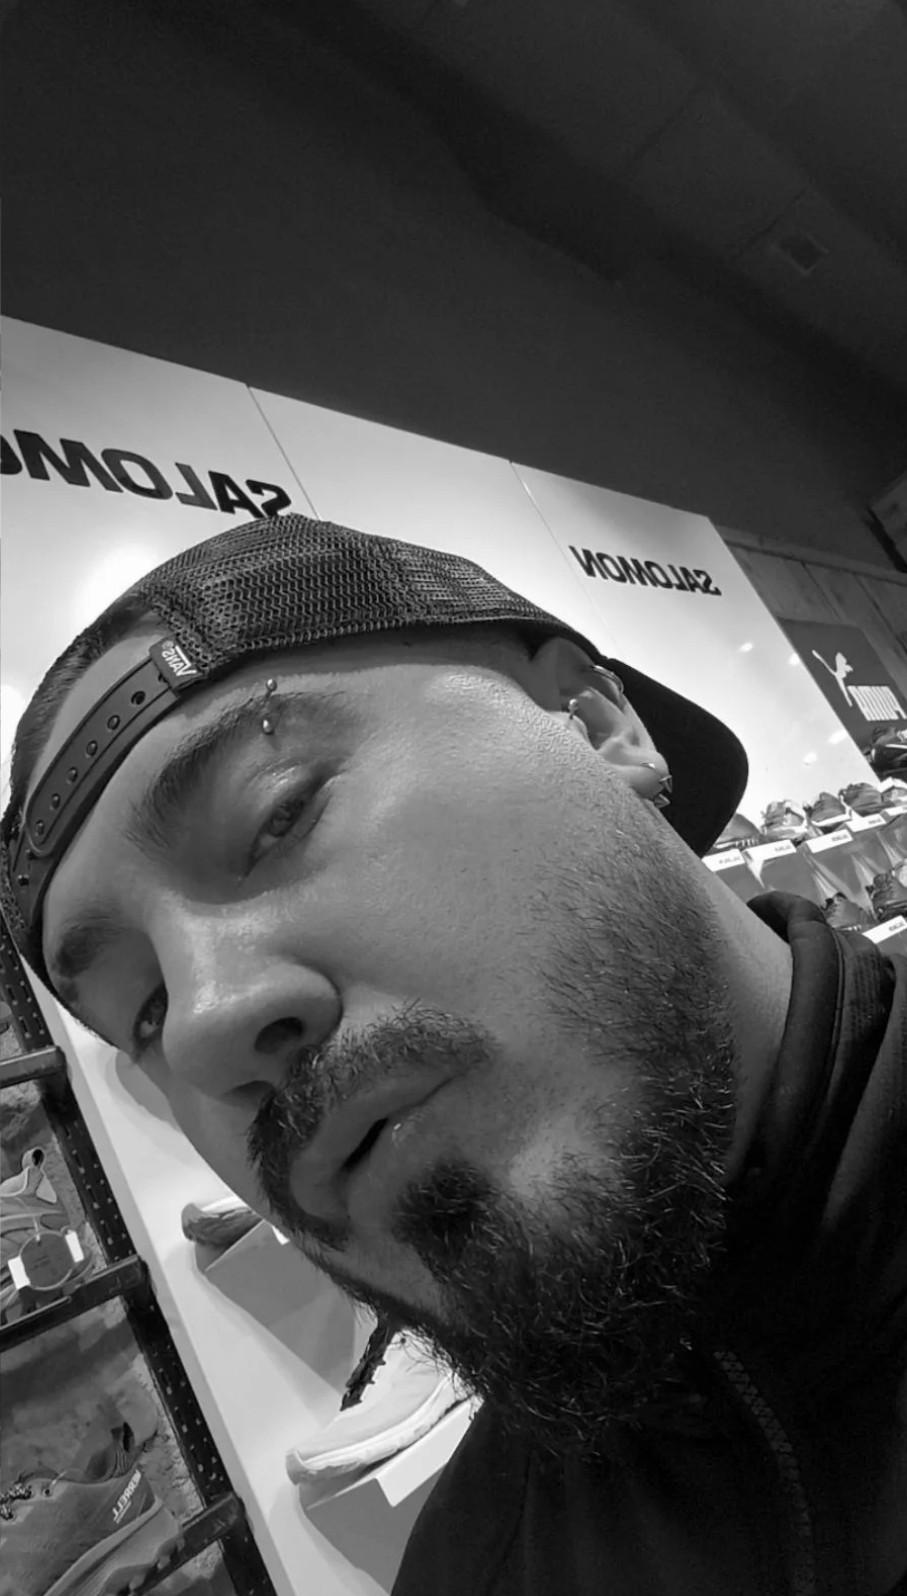
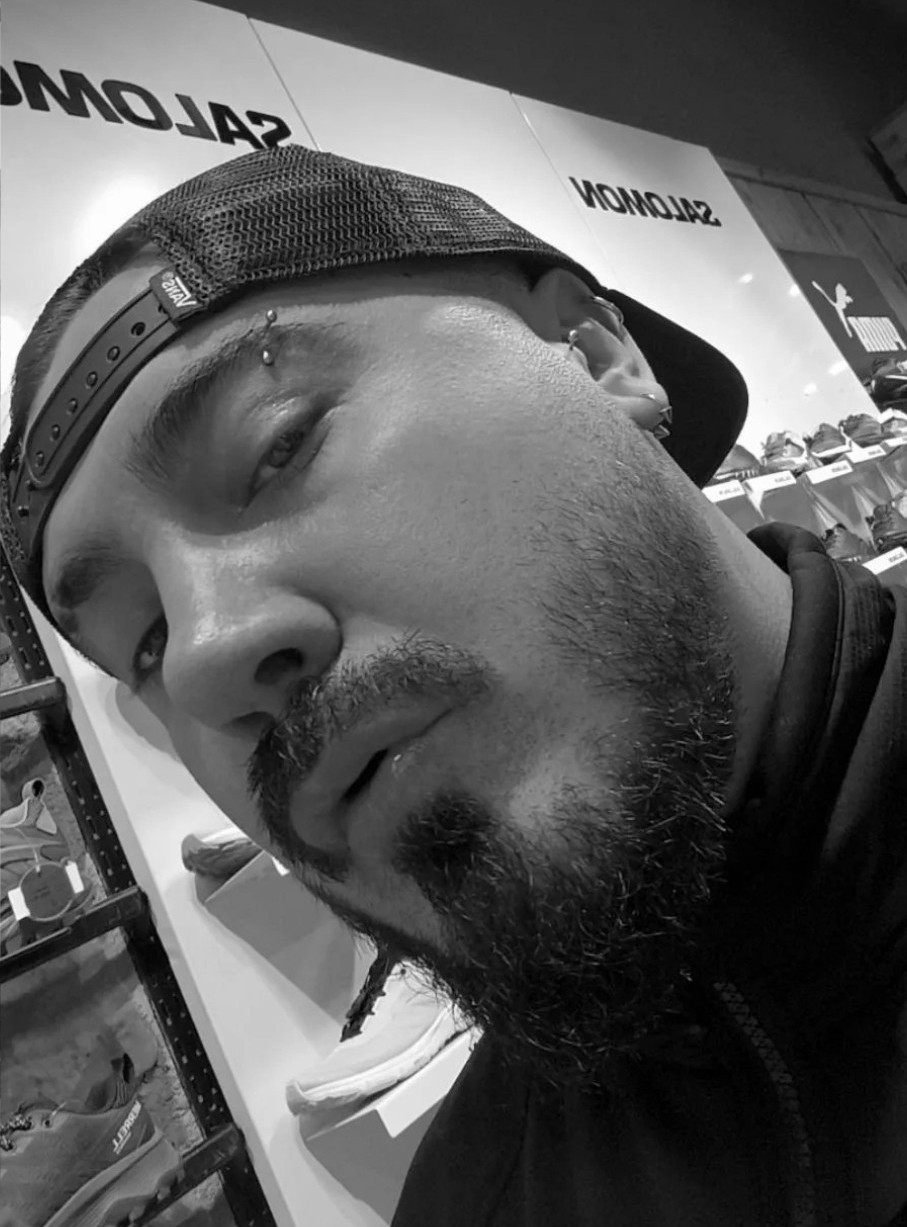
new

diff --git a/index.html b/index.html
@@ -28,6 +28,13 @@
       position: relative;
       overflow-x: hidden;
       font-size: 20px;
+      /* Arka plan animasyonu */
+      background: linear-gradient(120deg, #10172a 0%, #1e2746 100%);
+      animation: bg-move 16s ease-in-out infinite alternate;
+    }
+    @keyframes bg-move {
+      0% { background-position: 0% 50%; }
+      100% { background-position: 100% 50%; }
     }
     .bg-image {
       position: fixed;
@@ -42,6 +49,11 @@
       z-index: 1;
       pointer-events: none;
       background: repeating-linear-gradient(135deg, rgba(255,255,255,0.04) 0 2px, transparent 2px 80px), repeating-linear-gradient(45deg, rgba(255,255,255,0.04) 0 2px, transparent 2px 80px);
+      animation: pattern-move 18s linear infinite alternate;
+    }
+    @keyframes pattern-move {
+      0% { background-position: 0 0, 0 0; }
+      100% { background-position: 80px 80px, 80px 80px; }
     }
     .main-content {
       min-height: 100vh;
@@ -53,15 +65,54 @@
       z-index: 2;
       padding: 0 2vw;
     }
-    .profile-img {
-      width: 120px;
-      height: 120px;
-      border-radius: 50%;
-      object-fit: cover;
-      border: 6px solid #fff;
-      box-shadow: 0 4px 32px rgba(0,0,0,0.18);
-      margin-bottom: 2.2rem;
+    .main-content > * {
+      opacity: 0;
+      transform: translateY(40px);
+      animation: fade-in-up 1.1s cubic-bezier(.23,1.02,.32,1) forwards;
+    }
+    .main-content > .profile-img-hex { animation-delay: 0.1s; }
+    .main-content > .name { animation-delay: 0.3s; }
+    .main-content > .bio { animation-delay: 0.5s; }
+    .main-content > .actions { animation-delay: 0.7s; }
+    @keyframes fade-in-up {
+      to {
+        opacity: 1;
+        transform: none;
+      }
+    }
+    .profile-img-hex {
+      display: flex;
+      justify-content: center;
+      align-items: center;
+      width: 180px;
+      height: 204px;
       background: #fff;
+      clip-path: polygon(25% 6%, 75% 6%, 100% 50%, 75% 94%, 25% 94%, 0% 50%);
+      -webkit-clip-path: polygon(25% 6%, 75% 6%, 100% 50%, 75% 94%, 25% 94%, 0% 50%);
+      margin-bottom: 2.2rem;
+      box-shadow: 0 4px 32px rgba(0,0,0,0.18);
+      transition: box-shadow 0.3s, filter 0.3s;
+    }
+    .profile-img-hex:hover {
+      box-shadow: 0 0 0 8px #7be86c55, 0 4px 32px rgba(0,0,0,0.18);
+      filter: brightness(1.08) drop-shadow(0 0 16px #7be86c88);
+    }
+    .profile-img {
+      width: 160px;
+      height: 184px;
+      border-radius: 0;
+      object-fit: cover;
+      object-position: center top;
+      background: #fff;
+      clip-path: polygon(25% 6%, 75% 6%, 100% 50%, 75% 94%, 25% 94%, 0% 50%);
+      -webkit-clip-path: polygon(25% 6%, 75% 6%, 100% 50%, 75% 94%, 25% 94%, 0% 50%);
+      transition: box-shadow 0.2s, filter 0.2s;
+      border: none;
+      box-shadow: none;
+      margin-bottom: 0;
+    }
+    .profile-img:hover {
+      box-shadow: none;
     }
     .name {
       font-family: 'Tektur', Arial, sans-serif;
@@ -72,6 +123,17 @@
       margin-bottom: 1.2rem;
       letter-spacing: -1px;
       line-height: 1.1;
+      background: linear-gradient(90deg, #7be86c 10%, #fff 50%, #7be86c 90%);
+      background-size: 200% auto;
+      background-clip: text;
+      -webkit-background-clip: text;
+      color: transparent;
+      -webkit-text-fill-color: transparent;
+      animation: gradient-move 4s linear infinite alternate;
+    }
+    @keyframes gradient-move {
+      0% { background-position: 0% 50%; }
+      100% { background-position: 100% 50%; }
     }
     .bio {
       font-size: 1.25em;
@@ -134,15 +196,16 @@
       color: #222b3a;
       text-decoration: none;
       font-size: 2.1rem;
-      transition: background 0.2s, color 0.2s, box-shadow 0.2s;
+      transition: background 0.2s, color 0.2s, box-shadow 0.2s, transform 0.18s;
       border: 2px solid rgba(34,43,58,0.10);
       box-shadow: 0 2px 8px rgba(0,0,0,0.07);
       margin: 0 0.2em;
     }
     .icon-btn:hover {
-      background: #222b3a;
-      color: #fff;
-      box-shadow: 0 4px 16px rgba(34,43,58,0.13);
+      background: #7be86c;
+      color: #222b3a;
+      box-shadow: 0 4px 24px #7be86c44;
+      transform: scale(1.13) rotate(-6deg);
     }
     .icon-btn svg {
       width: 32px;
@@ -188,9 +251,86 @@
       font-weight: 400;
       letter-spacing: 0.1px;
     }
+    .social-feed-card {
+      margin: 2.5em auto 0 auto;
+      max-width: 1100px;
+      background: linear-gradient(120deg, rgba(34,43,58,0.55) 60%, rgba(16,23,42,0.38) 100%);
+      border-radius: 32px;
+      box-shadow: 0 6px 32px rgba(0,0,0,0.18);
+      padding: 2.2em 2.2em 1.7em 2.2em;
+      color: #fff;
+      font-family: 'Tektur', Arial, sans-serif;
+      font-size: 1.08em;
+      line-height: 1.7;
+      border: 1.5px solid rgba(255,255,255,0.13);
+      backdrop-filter: blur(8px);
+      -webkit-backdrop-filter: blur(8px);
+      z-index: 3;
+      position: relative;
+    }
+    .social-feed-title {
+      font-size: 1.35em;
+      font-weight: 700;
+      letter-spacing: 1px;
+      margin-bottom: 1.1em;
+      color: #7be86c;
+      text-shadow: 0 2px 8px rgba(0,0,0,0.13);
+    }
+    .social-feed-list {
+      display: flex;
+      flex-wrap: wrap;
+      gap: 2.2em 2.2em;
+      justify-content: flex-start;
+      align-items: flex-start;
+      padding: 0;
+      margin: 0;
+    }
+    .social-feed-item {
+      display: flex;
+      flex-direction: column;
+      align-items: center;
+      gap: 0.7em;
+      min-width: 320px;
+      max-width: 340px;
+      margin-bottom: 0.7em;
+      background: rgba(16,23,42,0.22);
+      border-radius: 18px;
+      box-shadow: 0 2px 8px rgba(0,0,0,0.07);
+      padding: 1em 0.5em 1.2em 0.5em;
+    }
+    .feed-label {
+      color: #7be86c;
+      font-size: 1.08em;
+      font-weight: 600;
+      margin-bottom: 0.5em;
+      letter-spacing: 0.5px;
+    }
+    .feed-iframe {
+      border-radius: 12px;
+      width: 100%;
+      min-width: 220px;
+      max-width: 320px;
+      background: #10172a;
+    }
+    @media (max-width: 1100px) {
+      .social-feed-list {
+        flex-direction: column;
+        gap: 1.5em 0;
+        align-items: center;
+      }
+      .social-feed-item {
+        min-width: 220px;
+        max-width: 98vw;
+      }
+    }
     @media (max-width: 700px) {
       .name { font-size: 2em; }
-      .profile-img { width: 80px; height: 80px; }
+      .profile-img-hex {
+        width: 90px;
+        height: 102px;
+        margin-bottom: 1.2rem;
+      }
+      .profile-img { width: 80px; height: 92px; border-radius: 0; object-position: center top; clip-path: polygon(25% 6%, 75% 6%, 100% 50%, 75% 94%, 25% 94%, 0% 50%); -webkit-clip-path: polygon(25% 6%, 75% 6%, 100% 50%, 75% 94%, 25% 94%, 0% 50%); }
       .actions { flex-direction: column; gap: 1em; padding: 1em; }
       .icon-btn { width: 48px; height: 48px; font-size: 1.3rem; }
       .about-card {
@@ -199,6 +339,36 @@
         font-size: 0.98em;
       }
       .about-title { font-size: 1.1em; }
+      .social-feed-card {
+        padding: 1.2em 0.7em 1em 0.7em;
+        max-width: 98vw;
+        font-size: 0.98em;
+      }
+      .social-feed-title { font-size: 1.1em; }
+      .social-feed-list { gap: 1em 0; }
+      .social-feed-item { padding: 0.7em 0.2em 0.8em 0.2em; }
+    }
+    .profile-row {
+      display: flex;
+      align-items: center;
+      justify-content: center;
+      gap: 2.5em;
+      margin-bottom: 0.5em;
+    }
+    .profile-img-hex { margin-bottom: 0; }
+    .profile-svg-anim {
+      display: flex;
+      align-items: center;
+      justify-content: center;
+      min-width: 120px;
+      min-height: 184px;
+      max-width: 120px;
+      max-height: 184px;
+      background: none;
+    }
+    @media (max-width: 700px) {
+      .profile-row { flex-direction: column; gap: 0.7em; }
+      .profile-svg-anim { min-width: 60px; min-height: 92px; max-width: 60px; max-height: 92px; }
     }
   </style>
 </head>
@@ -206,20 +376,44 @@
   <img class="bg-image" src="https://images.unsplash.com/photo-1506744038136-46273834b3fb?auto=format&fit=crop&w=1200&q=80" alt="Arka Plan" />
   <div class="bg-pattern"></div>
   <div class="main-content">
-    <img src="profil.jpg" alt="Profil Fotoğrafı" class="profile-img" />
+    <div class="profile-row">
+      <div class="profile-img-hex">
+        <img src="profil.jpg" alt="Profil Fotoğrafı" class="profile-img" />
+      </div>
+      <div class="profile-svg-anim">
+        <!-- Masaüstü bilgisayar SVG animasyonu -->
+        <svg width="120" height="184" viewBox="0 0 120 184" fill="none" xmlns="http://www.w3.org/2000/svg">
+          <g>
+            <!-- Masaüstü gövdesi -->
+            <rect x="20" y="60" width="80" height="54" rx="10" fill="#e0e6ed" stroke="#222b3a" stroke-width="2"/>
+            <!-- Ekran -->
+            <rect x="30" y="70" width="60" height="34" rx="4" fill="#10172a" stroke="#7be86c" stroke-width="2"/>
+            <!-- Kod satırları (animasyonlu) -->
+            <rect id="code1" x="36" y="78" width="48" height="4" rx="2" fill="#7be86c">
+              <animate attributeName="width" values="48;30;48" dur="1.2s" repeatCount="indefinite"/>
+            </rect>
+            <rect id="code2" x="36" y="85" width="38" height="4" rx="2" fill="#fff">
+              <animate attributeName="width" values="38;48;38" dur="1.1s" repeatCount="indefinite"/>
+            </rect>
+            <rect id="code3" x="36" y="92" width="28" height="4" rx="2" fill="#7be86c">
+              <animate attributeName="width" values="28;38;28" dur="1.3s" repeatCount="indefinite"/>
+            </rect>
+            <rect id="code4" x="36" y="99" width="20" height="4" rx="2" fill="#fff">
+              <animate attributeName="width" values="20;28;20" dur="1.2s" repeatCount="indefinite"/>
+            </rect>
+            <!-- Stand -->
+            <rect x="56" y="114" width="8" height="14" rx="4" fill="#222b3a"/>
+            <!-- Gölge -->
+            <ellipse cx="60" cy="134" rx="32" ry="7" fill="#222b3a" opacity="0.13"/>
+          </g>
+        </svg>
+      </div>
+    </div>
     <div class="name">Önder GÖG</div>
     <div class="bio">
-      Android ve Windows ekosistemlerine ilgi duyan, teknolojik yenilikleri keşfetmeyi seven bir teknoloji meraklısıyım. Yeni sistemleri denemek, yazılım ve donanım dünyasını kurcalamak benim için bir tutku. Deneyimleyerek öğrenirim; bazen bozarım ama her seferinde daha fazlasını keşfederim. Dijital dünyanın sunduğu olanakları takip eder, kendi çözümlerimi üretmeye çalışırım.
+      Android ve Windows ekosistemlerine ilgi duyan, teknolojik yenilikleri keşfetmeyi seven bir teknoloji meraklısıyım. Yeni sistemleri denemek, yazılım ve donanım dünyasını kurcalamak benim için bir tutku. Deneyimleyerek öğrenirim; bazen bozarım ama her seferinde daha fazlasını keşfederim. Dijital dünyanın sunduğu olanakları takip eder, kendi çözümlerimi üretmeye çalışırım. Sürekli gelişime ve paylaşmaya inanırım.
     </div>
-    <div class="about-card">
-      <div class="about-title">Hakkımda</div>
-      <ul class="about-list">
-        <li>Teknolojiye olan ilgim çocukluk yıllarımda başladı. Android ve Windows ekosistemlerinde yenilikleri takip etmeyi seviyorum.</li>
-        <li>Yeni sistemleri denemek, yazılım ve donanım dünyasını keşfetmek benim için bir tutku.</li>
-        <li>Bozarak, kurcalayarak ve deneyerek öğrenirim.</li>
-        <li>Sürekli gelişime ve paylaşmaya inanırım.</li>
-      </ul>
-    </div>
+    <script async src="https://platform.twitter.com/widgets.js" charset="utf-8"></script>
     <div class="actions">
       <a class="icon-btn" href="https://www.instagram.com/onder.gog/" target="_blank" title="Instagram">
         <svg viewBox="0 0 24 24"><path d="M7.75 2h8.5A5.75 5.75 0 0 1 22 7.75v8.5A5.75 5.75 0 0 1 16.25 22h-8.5A5.75 5.75 0 0 1 2 16.25v-8.5A5.75 5.75 0 0 1 7.75 2zm0 1.5A4.25 4.25 0 0 0 3.5 7.75v8.5A4.25 4.25 0 0 0 7.75 20.5h8.5A4.25 4.25 0 0 0 20.5 16.25v-8.5A4.25 4.25 0 0 0 16.25 3.5zm4.25 3.25a5.25 5.25 0 1 1 0 10.5a5.25 5.25 0 0 1 0-10.5zm0 1.5a3.75 3.75 0 1 0 0 7.5a3.75 3.75 0 0 0 0-7.5zm5.13.62a1.13 1.13 0 1 1-2.26 0a1.13 1.13 0 0 1 2.26 0z"/></svg>
@@ -228,7 +422,7 @@
         <svg viewBox="0 0 24 24"><path d="M17.53 2.47a2.75 2.75 0 0 1 3.88 3.88l-5.16 5.16l5.16 5.16a2.75 2.75 0 0 1-3.88 3.88l-5.16-5.16l-5.16 5.16a2.75 2.75 0 0 1-3.88-3.88l5.16-5.16l-5.16-5.16a2.75 2.75 0 0 1 3.88-3.88l5.16 5.16l5.16-5.16z"/></svg>
       </a>
       <a class="icon-btn" href="https://github.com/byGOG" target="_blank" title="GitHub">
-        <svg viewBox="0 0 24 24"><path d="M12 2C6.477 2 2 6.484 2 12.021c0 4.428 2.865 8.184 6.839 9.504.5.092.682-.217.682-.482 0-.237-.009-.868-.014-1.703-2.782.605-3.369-1.342-3.369-1.342-.454-1.154-1.11-1.462-1.11-1.462-.908-.62.069-.608.069-.608 1.004.07 1.532 1.032 1.532 1.032.892 1.53 2.341 1.088 2.91.832.091-.647.35-1.088.636-1.339-2.221-.253-4.555-1.113-4.555-4.951 0-1.093.39-1.987 1.029-2.687-.103-.253-.446-1.272.098-2.65 0 0 .84-.27 2.75 1.025A9.564 9.564 0 0 1 12 6.844c.85.004 1.705.115 2.504.337 1.909-1.295 2.748-1.025 2.748-1.025.546 1.378.202 2.397.1 2.65.64.7 1.028 1.594 1.028 2.687 0 3.847-2.337 4.695-4.566 4.944.359.309.678.919.678 1.852 0 1.336-.012 2.417-.012 2.747 0 .267.18.579.688.481C19.138 20.203 22 16.447 22 12.021 22 6.484 17.523 2 12 2z"/></svg>
+        <svg viewBox="0 0 24 24"><path d="M12 2C6.477 2 2 6.484 2 12.021c0 4.428 2.865 8.184 6.839 9.504.5.092.682-.217.682-.482 0-.237-.009-.868-.014-1.703-2.782.605-3.369-1.342-3.369-1.342-.454-1.154-1.11-1.462-1.11-1.462-.908-.62.069-.608.069-.608 1.004.07 1.532 1.032 1.532 1.032.892 1.53 2.341 1.088 2.91.832.091-.647.35-1.088.636-1.339-2.221-.253-4.555-1.113-4.555-4.951 0-1.093.39-1.987 1.029-2.687-.103-.253-.446-1.272.098-2.65 0 0 .84-.27 2.75 1.025A9.564 9.564 0 0 1 12 6.844c.85.004 1.705.115 2.504.337 1.909-1.295 2.748-1.025 2.748-1.025.653 1.653.242 2.873.118 3.176.77.84 1.235 1.911 1.235 3.221 0 4.609-2.803 5.624-5.475 5.921.43.372.823 1.102.823 2.222v3.293c0 .322.218.694.825.576C20.565 22.092 24 17.592 24 12.297c0-6.627-5.373-12-12-12"/></svg>
       </a>
       <a class="icon-btn" href="mailto:ondergog@yahoo.com" title="Mail Gönder">
         <svg viewBox="0 0 24 24"><path d="M2.25 6.75A2.25 2.25 0 0 1 4.5 4.5h15a2.25 2.25 0 0 1 2.25 2.25v10.5A2.25 2.25 0 0 1 19.5 19.5h-15A2.25 2.25 0 0 1 2.25 17.25zm1.5 0v.638l8.25 5.775l8.25-5.775V6.75a.75.75 0 0 0-.75-.75h-15a.75.75 0 0 0-.75.75zm16.5 1.862l-7.7 5.4a.75.75 0 0 1-.85 0l-7.7-5.4V17.25c0 .414.336.75.75.75h15a.75.75 0 0 0 .75-.75z"/></svg>
